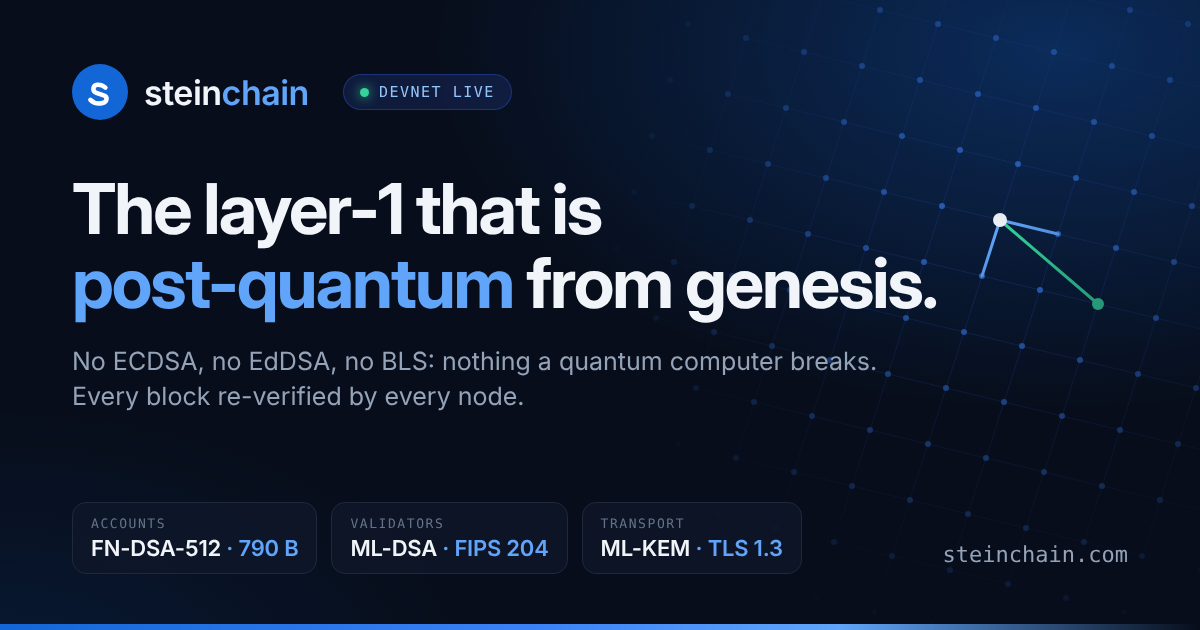
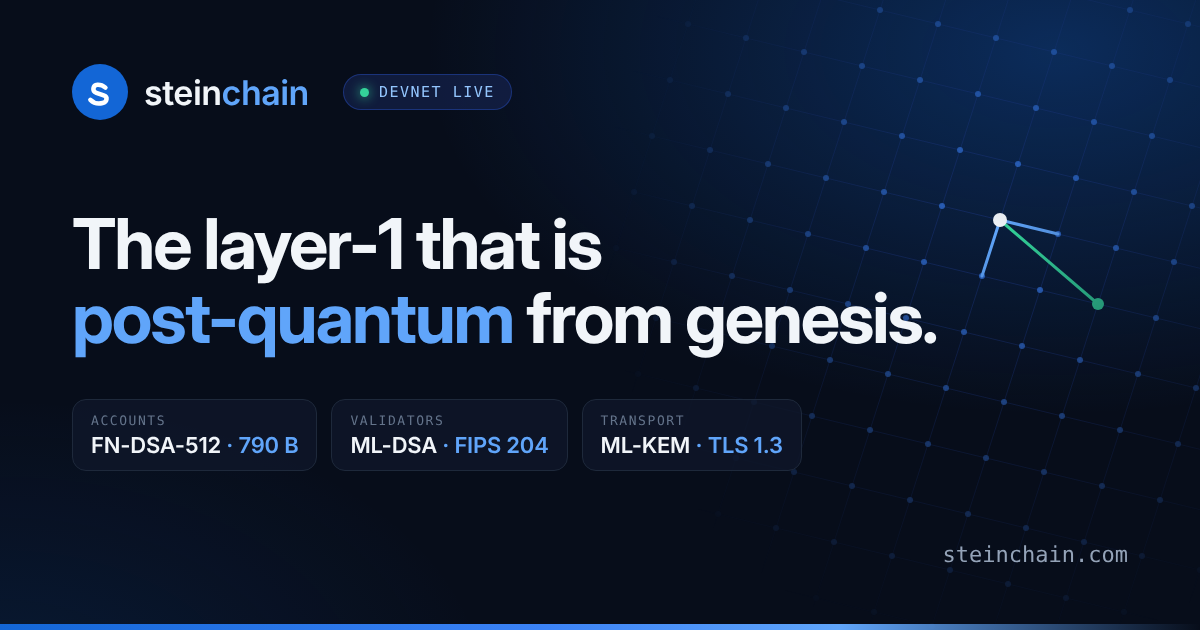
steinchain.com card: headline and schemes only
Drop the line under the headline and bring the scheme cards up to it,
centred in the space below the logo.

diff --git a/website/og/card.html b/website/og/card.html
@@ -23,7 +23,7 @@
   }
   /* A lattice: the mathematics ML-DSA and FN-DSA rest on. */
   .lattice { position: absolute; right: -40px; top: -30px; width: 640px; height: 690px; }
-  .frame { position: absolute; inset: 0; padding: 64px 72px 56px; display: flex; flex-direction: column; }
+  .frame { position: absolute; inset: 0; padding: 64px 72px 72px; display: flex; flex-direction: column; }
   .brand { display: flex; align-items: center; gap: 16px; }
   .brand svg { width: 56px; height: 56px; }
   .brand-name { font-size: 34px; font-weight: 600; letter-spacing: -.015em; }
@@ -32,11 +32,10 @@
     border: 1px solid rgba(30, 58, 138, .8); border-radius: 999px; background: rgba(23, 37, 84, .6);
     color: #93c5fd; font: 15px/1.5 var(--mono); letter-spacing: .1em; text-transform: uppercase; }
   .dot { width: 9px; height: 9px; border-radius: 50%; background: var(--ok); box-shadow: 0 0 12px var(--ok); }
-  h1 { margin: 52px 0 0; max-width: 1000px; font-family: "Inter Display", Inter, sans-serif;
+  h1 { margin: auto 0 0; max-width: 1000px; font-family: "Inter Display", Inter, sans-serif;
     font-size: 70px; line-height: 1.06; letter-spacing: -.03em; font-weight: 700; }
   .accent { color: var(--accent-soft); white-space: nowrap; }
-  .lede { margin: 24px 0 0; max-width: 860px; color: var(--soft); font-size: 25px; line-height: 1.4; }
-  .chips { margin-top: auto; display: flex; gap: 14px; }
+  .chips { margin: 44px 0 auto; display: flex; gap: 14px; }
   .chip { padding: 12px 18px; border: 1px solid var(--line); border-radius: 14px; background: rgba(15, 23, 42, .78); }
   .chip .k { color: var(--muted); font: 13px/1.4 var(--mono); letter-spacing: .12em; text-transform: uppercase; }
   .chip .v { margin-top: 2px; font-size: 22px; font-weight: 600; letter-spacing: -.01em; }
@@ -66,7 +65,6 @@
     </div>
 
     <h1>The layer-1 that is<br><span class="accent">post-quantum</span> from genesis.</h1>
-    <p class="lede">No ECDSA, no EdDSA, no BLS: nothing a quantum computer breaks.<br>Every block re-verified by every node.</p>
 
     <div class="chips">
       <div class="chip"><div class="k">Accounts</div><div class="v">FN-DSA-512 <span>· 790 B</span></div></div>
